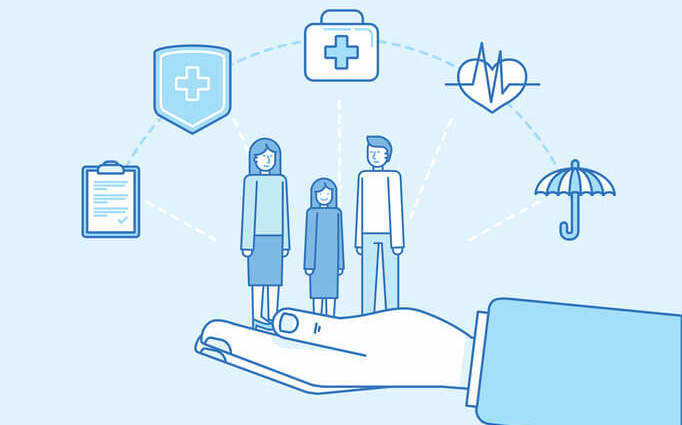
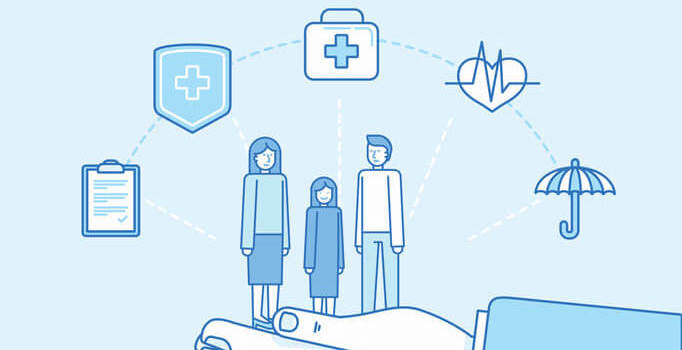
Switching out of images to digital transformation specific infographics. Alterations of text content. Speeding up of typing text JS. Addition of Google Analytics script.

Changed region(s): [[0.0924, 0.0, 1.0, 1.0]]

diff --git a/index.html b/index.html
@@ -1,6 +1,16 @@
 <!doctype html>
 <html lang="en">
   <head>
+    <!-- Global site tag (gtag.js) - Google Analytics -->
+<script async src="https://www.googletagmanager.com/gtag/js?id=UA-155833203-1"></script>
+<script>
+  window.dataLayer = window.dataLayer || [];
+  function gtag(){dataLayer.push(arguments);}
+  gtag('js', new Date());
+
+  gtag('config', 'UA-155833203-1');
+</script>
+
     <title>Strategy Health</title>
     <meta charset="utf-8">
     <meta name="viewport" content="width=device-width, initial-scale=1, shrink-to-fit=no">
@@ -58,7 +68,7 @@
 
               <ul class="site-menu main-menu js-clone-nav mr-auto d-none d-lg-block">
                 <li><a href="#home-section" class="nav-link">Home</a></li>
-                <li><a href="#about-section" class="nav-link">About</a></li>
+                <li><a href="#about-section" class="nav-link">About Us</a></li>
                 <li><a href="#services-section" class="nav-link">Our Services</a></li>
                 <li><a href="#contact-section" class="nav-link">Contact Us</a></li>
               </ul>
@@ -83,7 +93,7 @@
               <div class="col-lg-11">
 
                 <h1>Digital <span class="typed-words"></span></h1>
-                <p>Helping Health Systems, Investors, Pharma, and Digital Health firms maximise their potential.</p>
+                <p>Helping clients utilize Digital Health technologies to reach their maximum potential.</p>
                 <p><a href="#contact-section" class="btn btn-warning px-5 py-3 text-white smoothscroll">Contact Us</a></p>
               </div>
               
@@ -99,8 +109,8 @@
         <div class="row">
           <div class="col-12" style="margin-top: -12%;">
             <div class="slide-one-item home-slider owl-carousel">
-              <img src="images/connected_care.jpg" alt="Image" class="img-fluid img">
-              <img src="images/doctor_with_ipad.jpg" alt="Image" class="img-fluid img">
+              <img src="images/digital_programs.jpg" alt="Image" class="img-fluid img">
+              <img src="images/digital_transformation.jpg" alt="Image" class="img-fluid img">
             </div>
           </div>
         </div>
@@ -113,26 +123,47 @@
         <div class="row">
           
           <div class="col-md-5 mr-auto mb-5">
-            <h2 class="text-black mb-4">Digital Health Strategy Solutions</h2>
-            <p>The healthcare industry is changing like never before. With the rise in digital health and novel health technologies, altering payment models, and plateauing health outcomes there is an urgent need for players in the industry to adapt and select the right path forward. Strategy Health's focus on the digital health sphere brings unrivaled and market-leading knowledge to drive successful strategies for delivering long-term performance and growth.</p>
-            <p>We take a holistic approach to what's happening in the industry today and where we might be tomorrow. This foresight is what drives value for our clients.</p>
+            <h2 class="text-black mb-4">Digital Health Solutions</h2>
+            <p>With the rise of digital health and novel health technologies, changing payment models, and plateauing health outcomes there is a pressing need for healthcare to adapt and select a new path forward.</p>
+
+            <p>At Strategy Health we often hear that most health systems and digital health firms stumble at the first hurdle. How do you effectively navigating a shifting digital health landscape and focus on what truly delivers outcomes. This is where Strategy.Health offers a unique perspective, helping to filter through the noise and focus on providing digital strategies that deliver long-term performance and growth.</p>
+
+            <h5><strong>Experienced Specialists</strong></h5>
+            <p>Led by a team with decades of experience working side-by-side with C-suite leaders on innovation program design and digital health strategy. We are specialists in health innovation and digital health and how providers, pharma, investors, and digital health firms can to position themselves to become market leaders.</p>
+
+            <p>We have have deep experience in supporting healthcare enterprises including:<strong> NHS, Mount Sinai Health System, NYC Health + Hositals, Yale New Haven Health System, Roche, and Takeda</strong>.</p>
           </div>
           <div class="col-md-6 ml-auto">
             <div class="row">
               <div class="col-md-6">
                 <div class="service px-0">
+                  <div class="icon"><span class="flaticon-group display-2 text-primary"></span></div>
+                  <h4 class="text-black mb-3">Experienced Team</h4>
+                  <p>Clinically trained at some of the most prestigious institutions globally, the Strategy.Health team has deep experience supporting all manner of healthcare institutions in digital transformation.</p>
+                </div>
+              </div>
+              <div class="col-md-6">
+                <div class="service px-0">
+                  <div class="icon"><span class="flaticon-target display-2 text-primary"></span></div>
+                  <h4 class="text-black mb-3">Targeted Approach</h4>
+                  <p>Being specialists in clinical practice, workflows, opperations, and strategy we have the unique ability to hone in on specific problems yet clearly lay out solutions that scale.</p>
+                </div>
+              </div>
+              <div class="col-md-6">
+                <div class="service px-0">
                   <div class="icon"><span class="flaticon-money-bag-with-dollar-symbol display-2 text-primary"></span></div>
                   <h4 class="text-black mb-3">Delivering ROI</h4>
-                  <p>Utilizing our history of delivering successful projects in the healthcare space to focus on projects that produce returns.</p>
+                  <p>Each and every one of our engagements delivers defined value. From transitions of care to reducing no-shows, we're here to drive positive outcomes.</p>
                 </div>
               </div>
               <div class="col-md-6">
                 <div class="service px-0">
                   <div class="icon"><span class="flaticon-manager display-2 text-primary"></span></div>
-                  <h4 class="text-black mb-3">People First</h4>
-                  <p>The first rule of digital transformation is that it makes lives easier and better. This people first approach differentiates our approach to how we work with clients.</p>
+                  <h4 class="text-black mb-3">Low Burden</h4>
+                  <p>The first rule of digital transformation is that it makes lives easier and better. Taking a people first approach differentiates our methodology and characterizes how we work with clients.</p>
                 </div>
               </div>
+
             </div>
           </div>
         </div>
@@ -147,8 +178,8 @@
         <div class="row mb-5 justify-content-center">
           <div class="col-md-9 text-center">
             <h2 class="text-black">Our Services</h2>
-            <p>A boutique firm focused on helping the full spectrum of healthcare players to maximise their potential through the implementation of digital health technologies.</p>
-              <p>We've helped health systems successfully implement digital transformation initiatives, digital health start-ups understand how to sell into the healthcare market, and investors understand the competitive landscape when diligencing deals.</p>
+            <p>Offering boutique consulting services focused on helping a full spectrum of healthcare clients maximise their potential through the implementation of digital health technologies.</p>
+              <p>We've helped health systems successfully implement digital transformation initiatives, digital health start-ups develop their go-to-market strategy, and investors understand the competitive landscape when diligencing deals.</p>
           </div>
         </div>
 
@@ -268,8 +299,8 @@
             <div class="border-top pt-5">
               <!-- Link back to Colorlib can't be removed. Template is licensed under CC BY 3.0. -->
               <p>Copyright &copy;
-                <script>document.write(new Date().getFullYear());</script> All rights reserved | This template is made with <i
-                  class="icon-heart-o" aria-hidden="true"></i> by <a href="https://colorlib.com" target="_blank">Colorlib</a></p>
+                <script>document.write(new Date().getFullYear());</script> All rights reserved <div style="color: #0c5f27;">This template is made with <i
+                  class="icon-heart-o" aria-hidden="true"></i> by Colorlib</div></p>
               <!-- Link back to Colorlib can't be removed. Template is licensed under CC BY 3.0. -->
         
             </div>
@@ -300,7 +331,7 @@
             strings: [" Health", " Transformation", " Health Strategy", " Innovation", " Therapeutics"],
             typeSpeed: 80,
             backSpeed: 80,
-            backDelay: 4000,
+            backDelay: 2000,
             startDelay: 1000,
             loop: true,
             showCursor: true

diff --git a/css/style.css b/css/style.css
@@ -1767,7 +1767,7 @@ figure figcaption {
   color: #000; }
 
 .service {
-  padding: 30px; }
+  padding-top: 30px; }
   .service .icon span {
     color: #0C5F27; }
   .service h3 {

diff --git a/scss/_site-blocks.scss b/scss/_site-blocks.scss
@@ -1486,7 +1486,7 @@ figure {
 }
 
 .service {
-	padding: 30px;
+	padding-top: 30px;
 	.icon {
 		span {
 			color: $primary;
